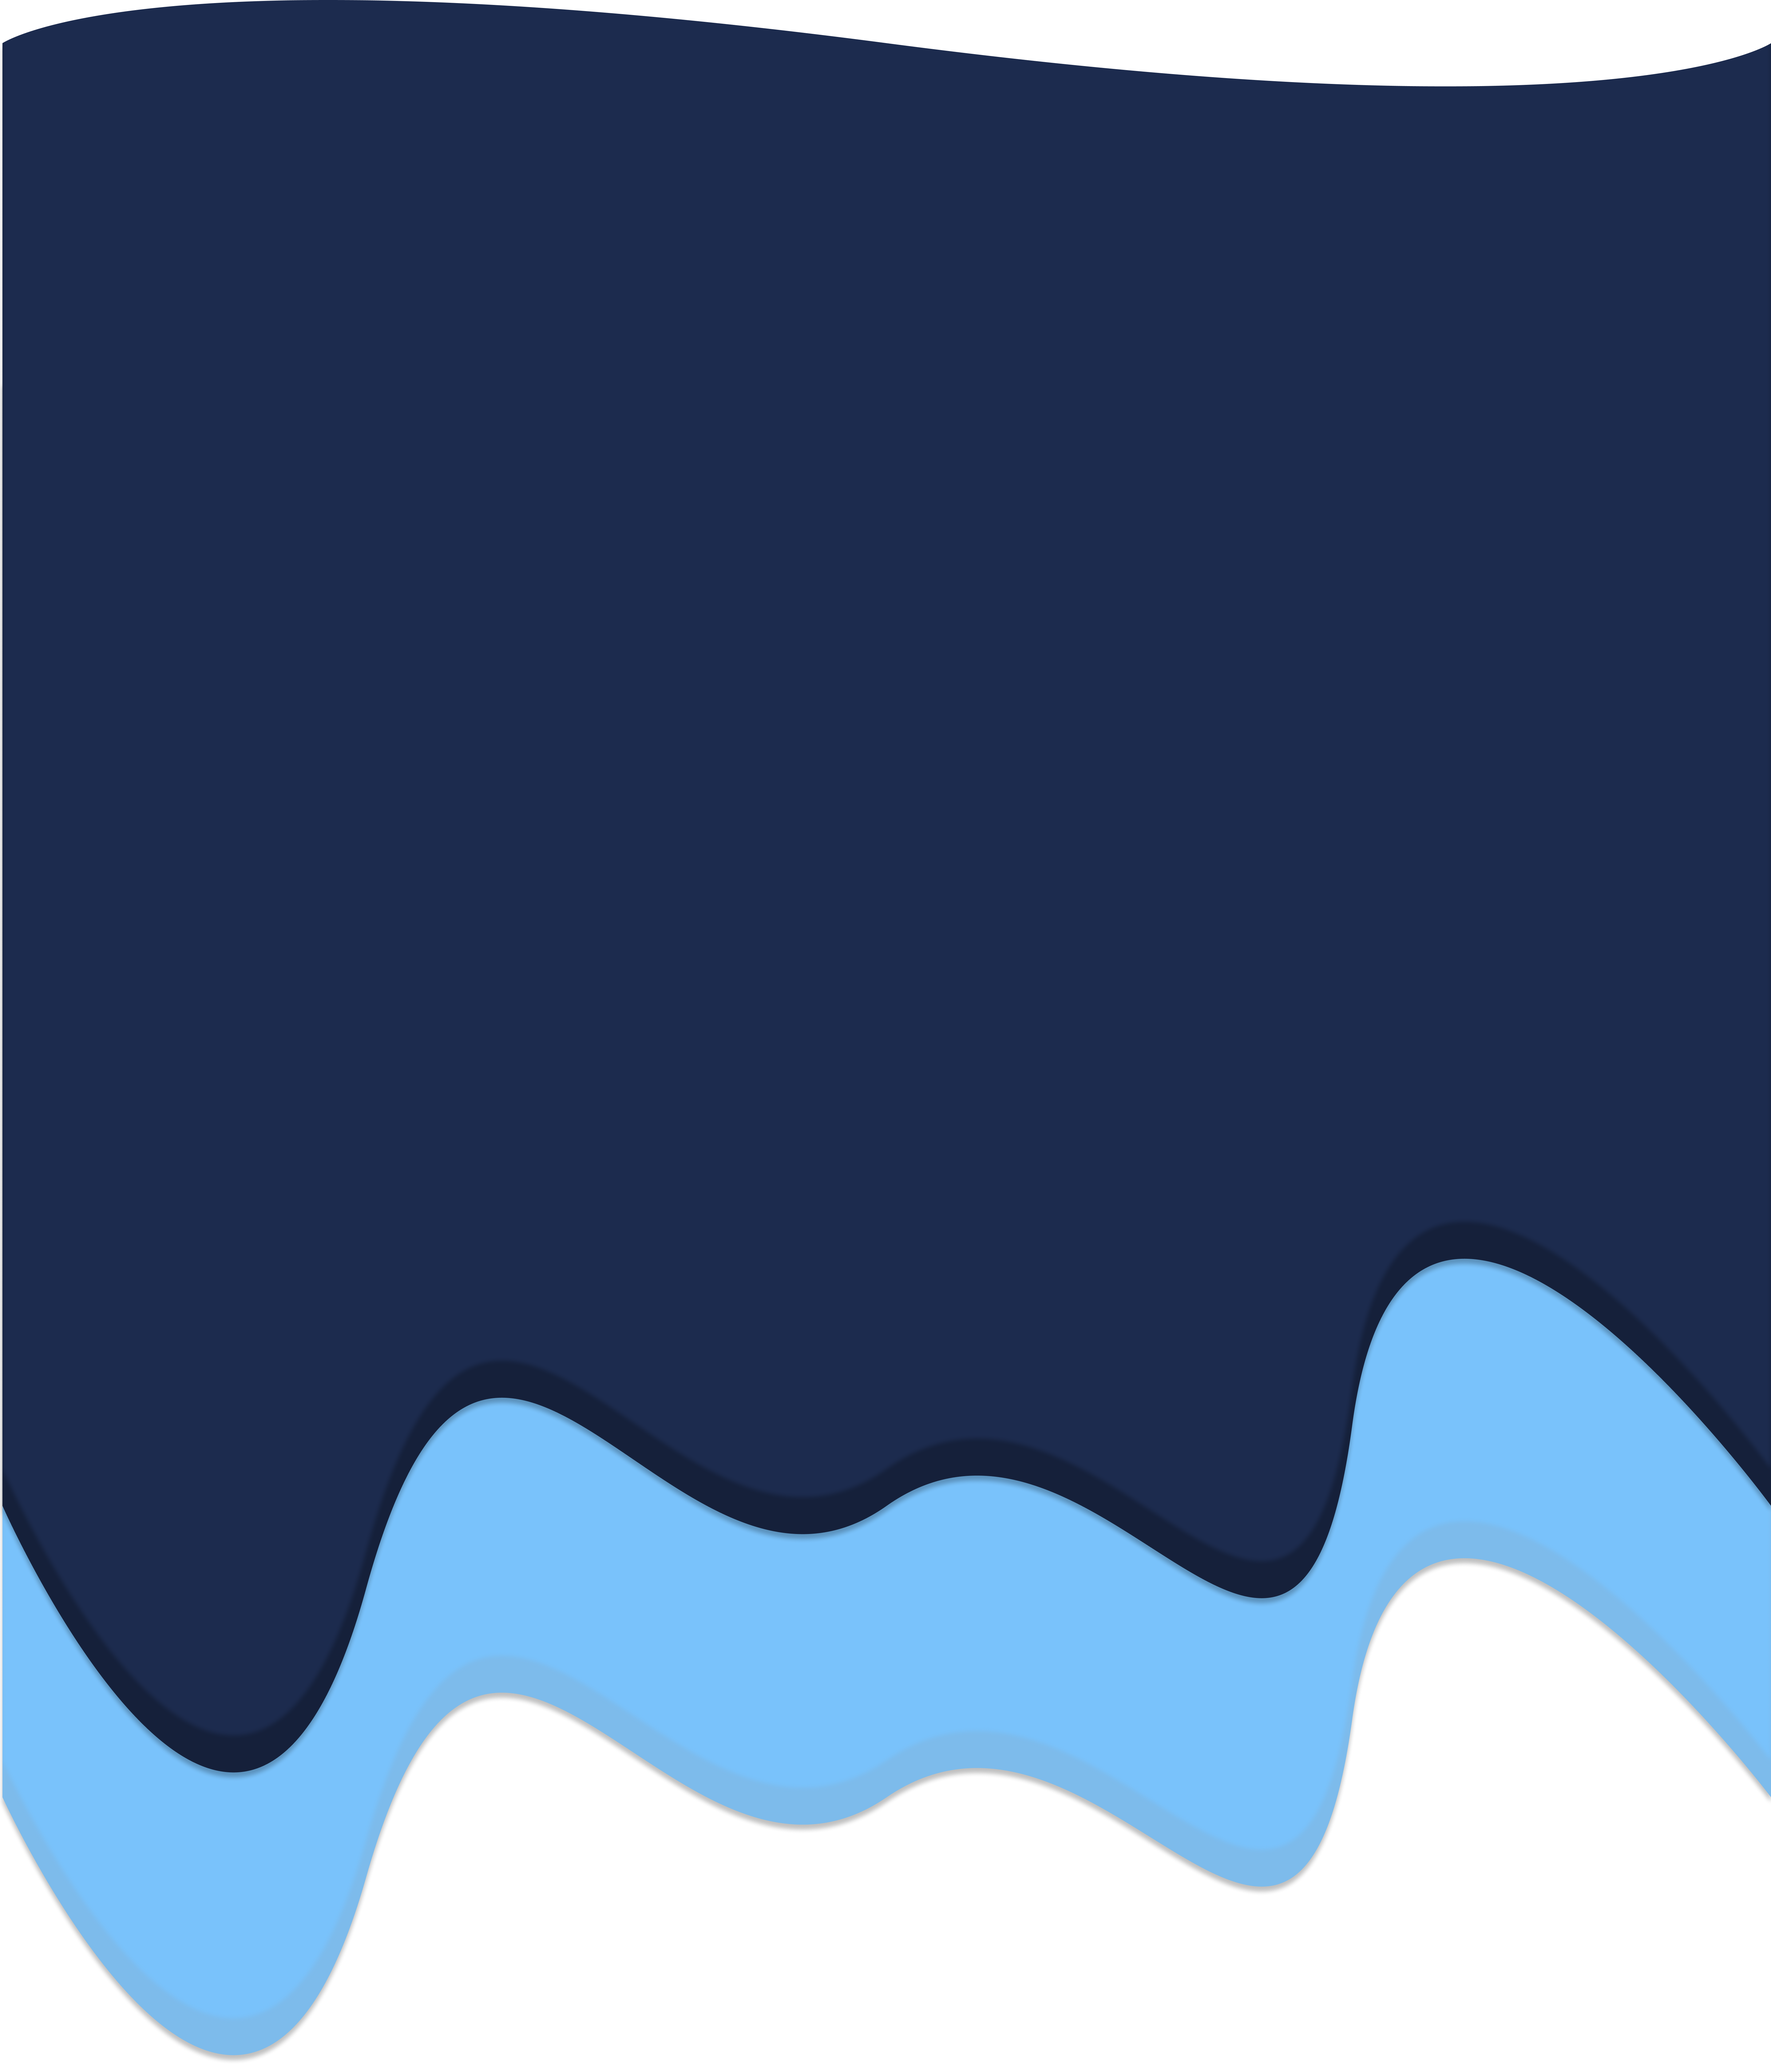
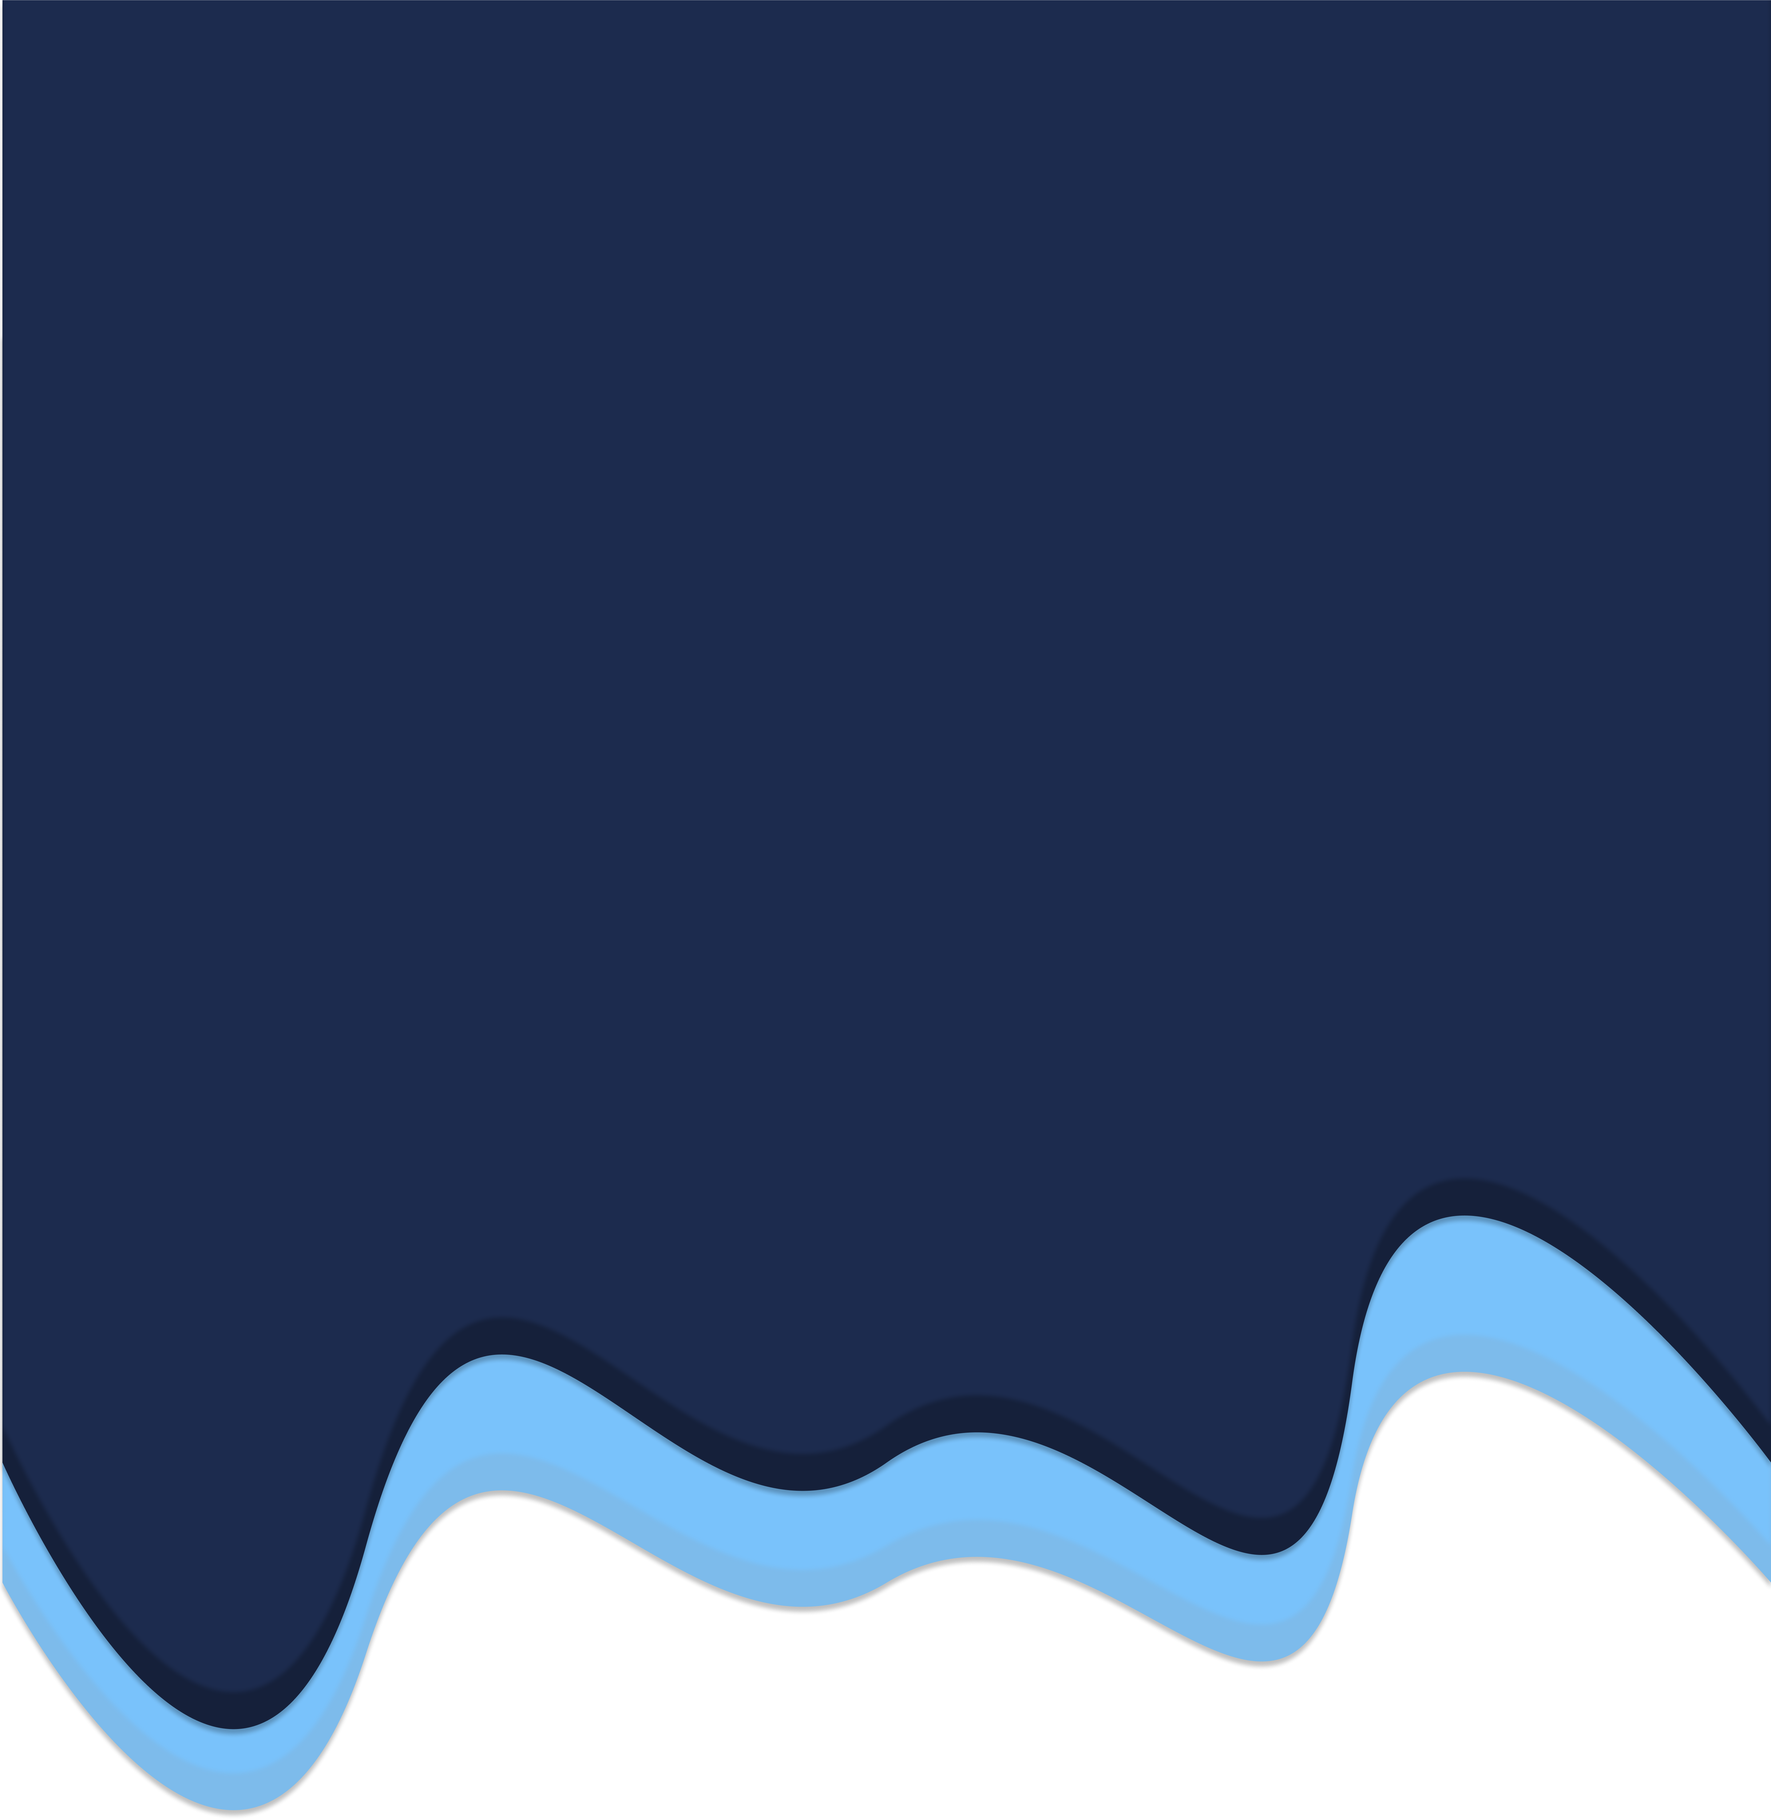
adjust design and hide and show password

Changed region(s): [[0.0, 0.5938, 1.0, 0.9688], [0.2812, 0.0, 1.0, 0.0625], [0.0, 0.0, 0.0938, 0.0312]]

diff --git a/frontend/src/css/login.css b/frontend/src/css/login.css
@@ -13,10 +13,10 @@
   background: #1F315D;
   backdrop-filter: blur(15px);
   border: 1px solid rgba(255, 255, 255, 0.05);
-  padding: 3rem 2.5rem;
+  padding: 3rem 3.5rem;
   width: 100%;
   height: 500px;
-  max-width: 380px;
+  max-width: 480px;
   text-align: center;
   display: flex;
   flex-direction: column;
@@ -49,8 +49,8 @@
 }
 
 .icon-input input {
-  padding-left: 3rem;
-  padding-right: 3rem;
+  padding-left: 3.5rem;
+  padding-right: 3.5rem;
 }
 
 .input-icon {
@@ -61,39 +61,32 @@
   font-size: 1.1rem;
   color: #888;
   pointer-events: none;
+  z-index: 5;
 }
 
 .input-icon.clickable {
-  left: auto;
-  right: 1rem;
-  cursor: pointer;
-  pointer-events: auto;
+  display: none;
 }
 
-/* Special handling for password field with two icons */
+/* Special handling for password field - no show/hide icon needed */
 .icon-input:has(input[type="password"]) input,
 .icon-input:has(input[type="text"][name="password"]) input {
-  padding-right: 3rem;
-}
-
-.icon-input:has(input[type="password"]) .input-icon.clickable,
-.icon-input:has(input[type="text"][name="password"]) .input-icon.clickable {
-  right: 1rem;
+  padding-right: 1.5rem;
 }
 
 .form-input {
   width: 100% !important;
-  padding: 0.9rem 1rem !important;
-  padding-left: 3rem !important;
+  padding: 1.2rem 1.5rem !important;
+  padding-left: 3.5rem !important;
   border: none !important;
-  border-radius: 6px !important;
-  font-size: 14px !important;
+  border-radius: 8px !important;
+  font-size: 16px !important;
   background-color: rgba(255, 255, 255, 0.95) !important;
   color: #333 !important;
   transition: all 0.3s ease !important;
   text-align: left !important;
   box-sizing: border-box !important;
-  height: 48px !important;
+  height: 56px !important;
 }
 
 .form-input::placeholder {
@@ -108,12 +101,12 @@
 
 .signin-button {
   width: 100%;
-  height: 48px;
+  height: 56px;
   background-color: #FFCC00 !important;
   color: #000 !important;
   border: none;
-  border-radius: 6px;
-  font-size: 0.95rem;
+  border-radius: 8px;
+  font-size: 1.1rem;
   font-weight: 600;
   cursor: pointer;
   transition: all 0.3s ease;
